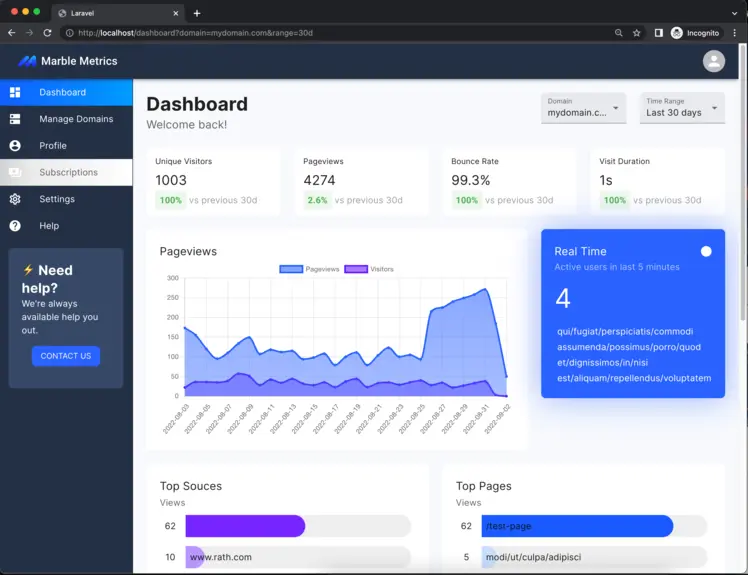
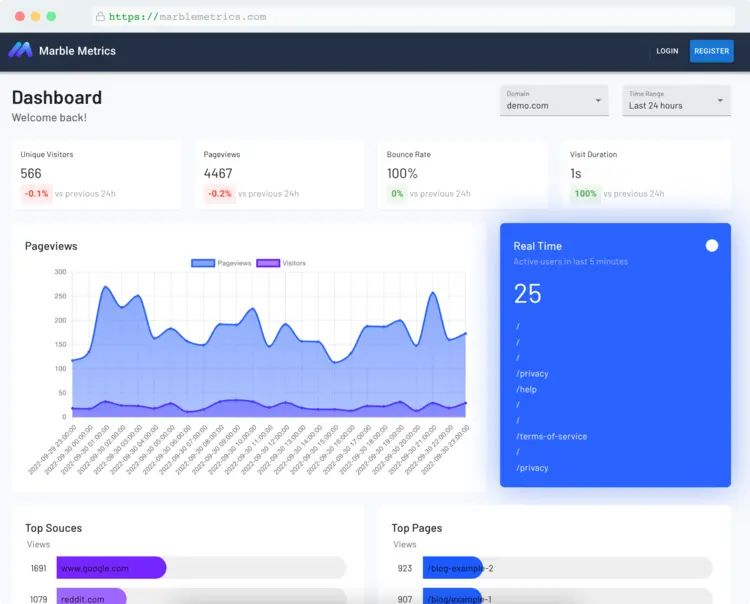
Exclude null sources from dashboard, update sample dashboard images

diff --git a/src/app/Repositories/EventRepository.php b/src/app/Repositories/EventRepository.php
@@ -73,7 +73,11 @@ class EventRepository
     public static function getTopSources(Interval $interval, Domain $domain) {
         return DB::select( DB::raw("SELECT source as label, count(*) as count
                                         FROM events
-                                        WHERE domain_id = :domain AND event_name='pageview' AND created_at >= '{$interval->getStart()}' AND created_at <= '{$interval->getEnd()}'
+                                        WHERE domain_id = :domain
+                                            AND event_name='pageview'
+                                            AND created_at >= '{$interval->getStart()}'
+                                            AND created_at <= '{$interval->getEnd()}'
+                                            AND source IS NOT NULL
                                         GROUP BY source
                                         ORDER BY count DESC
                                         LIMIT 8
